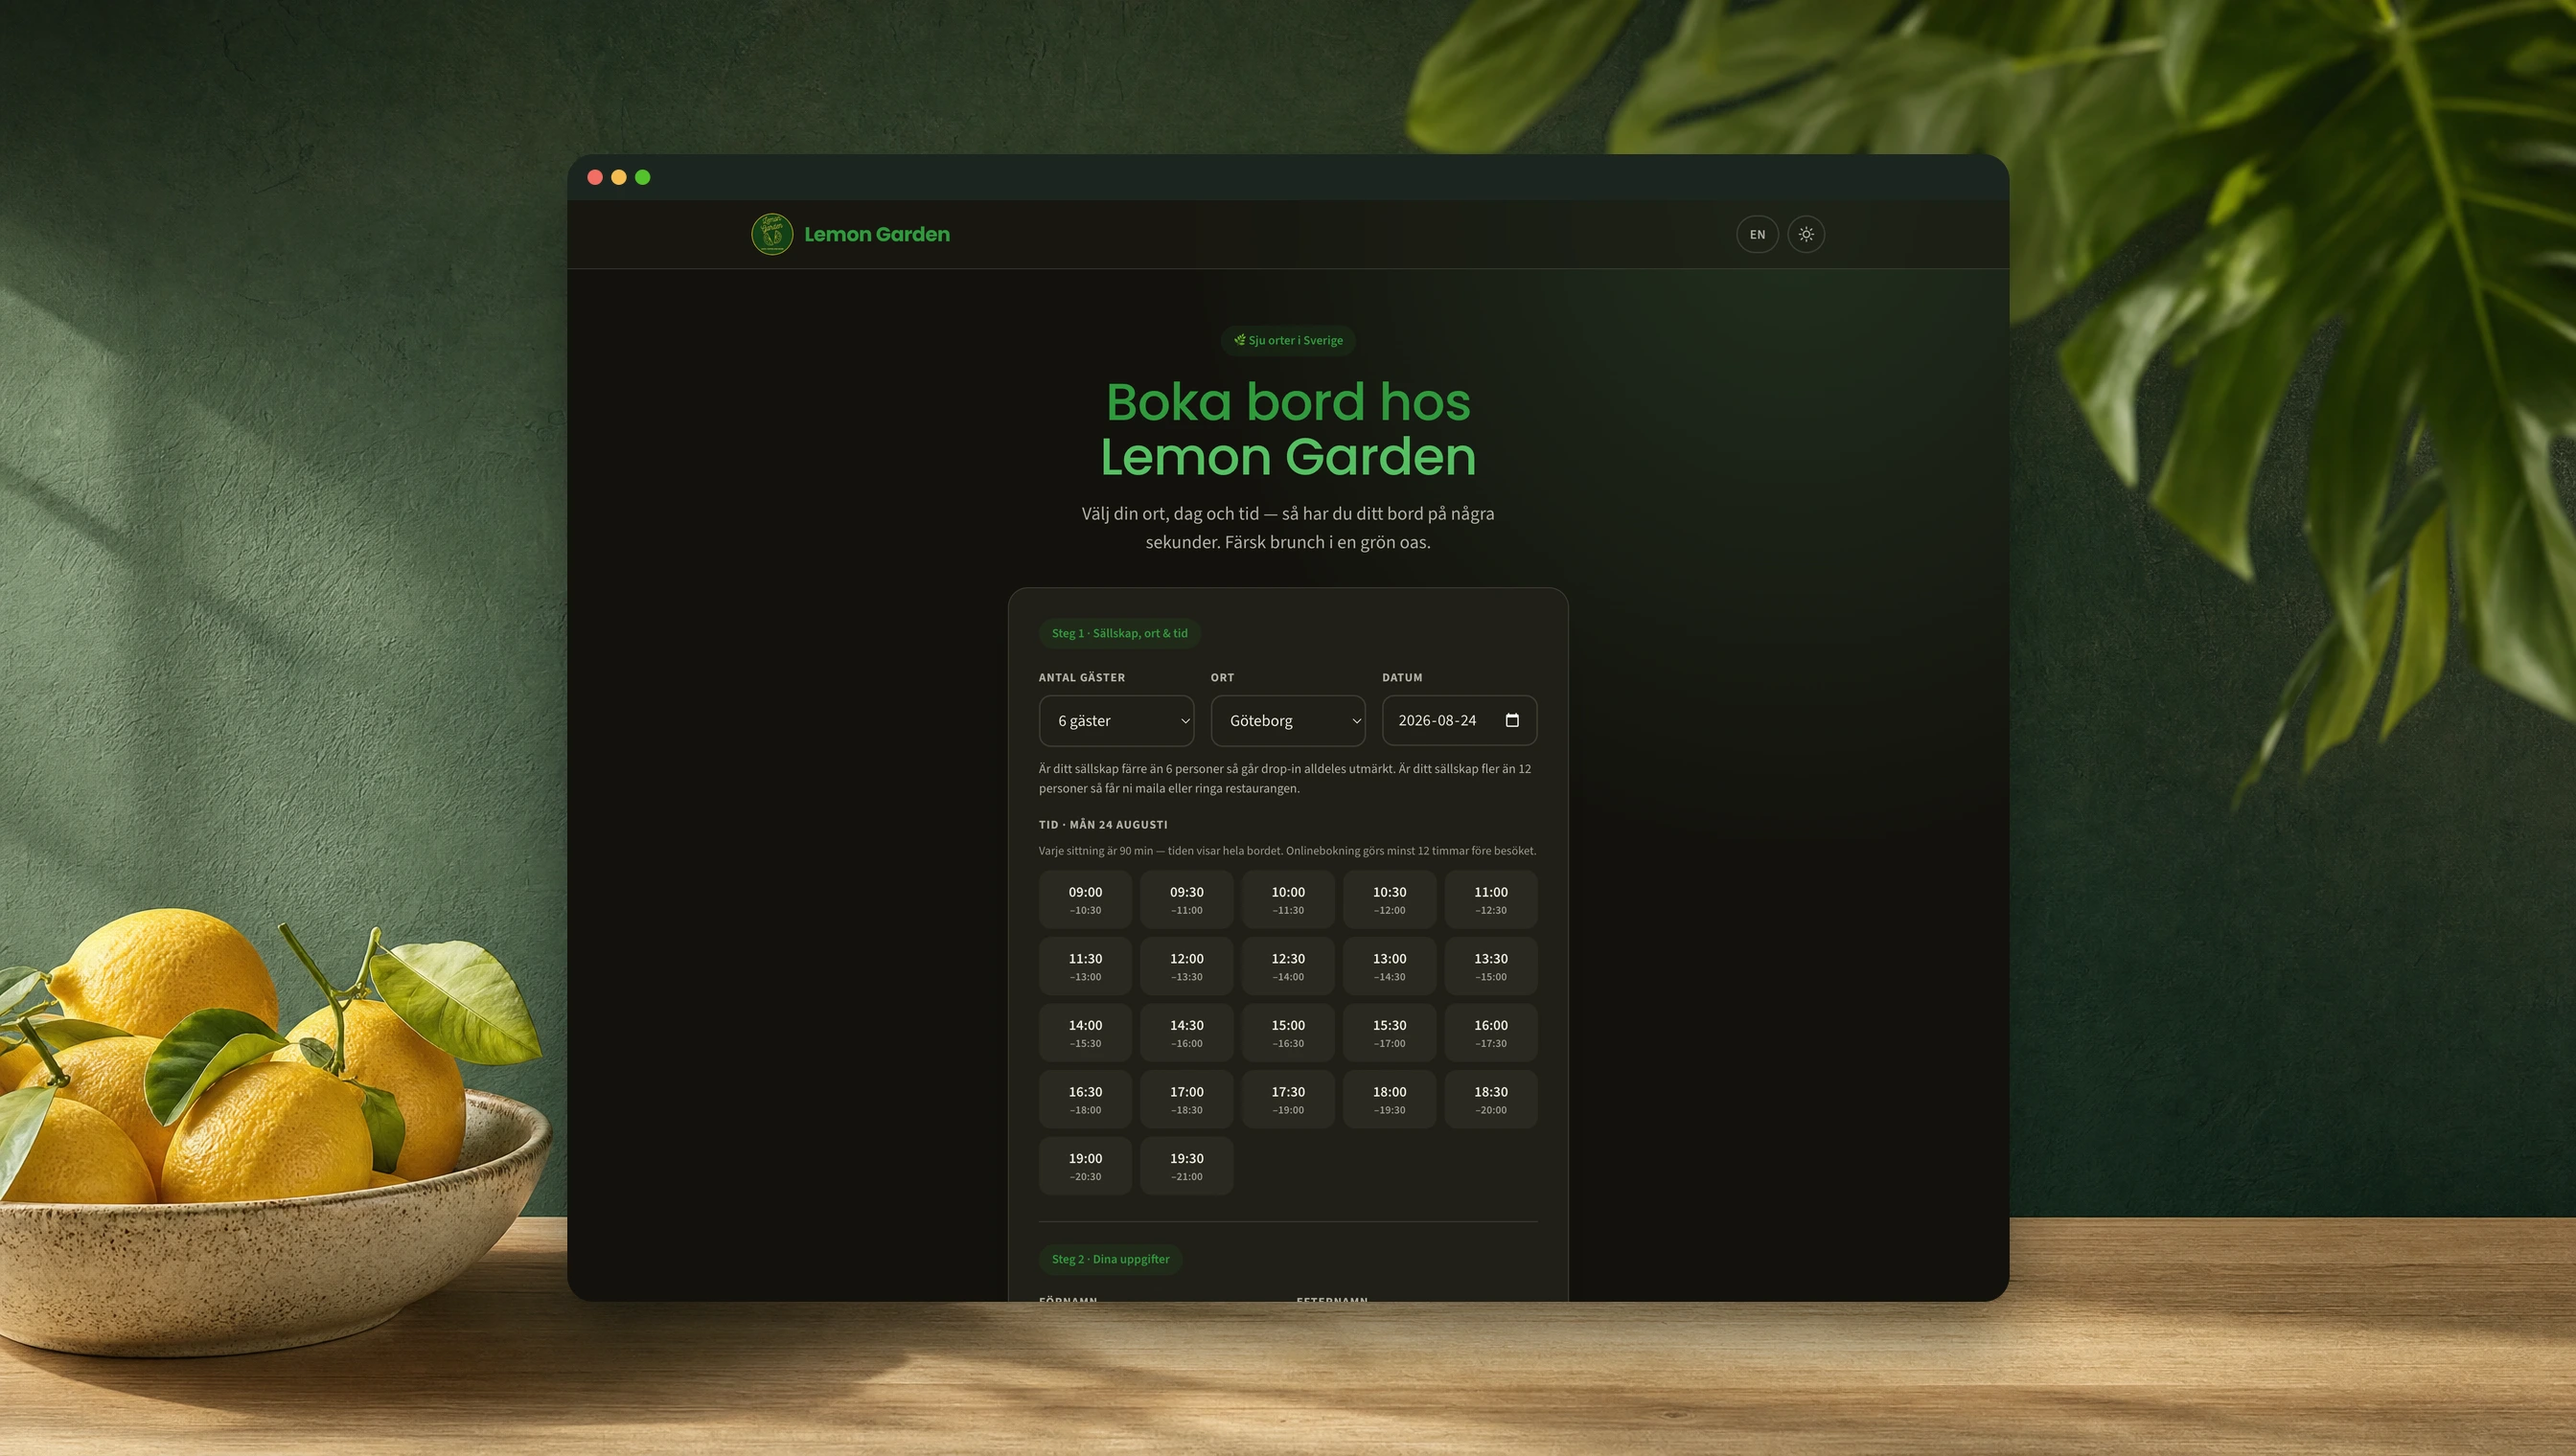
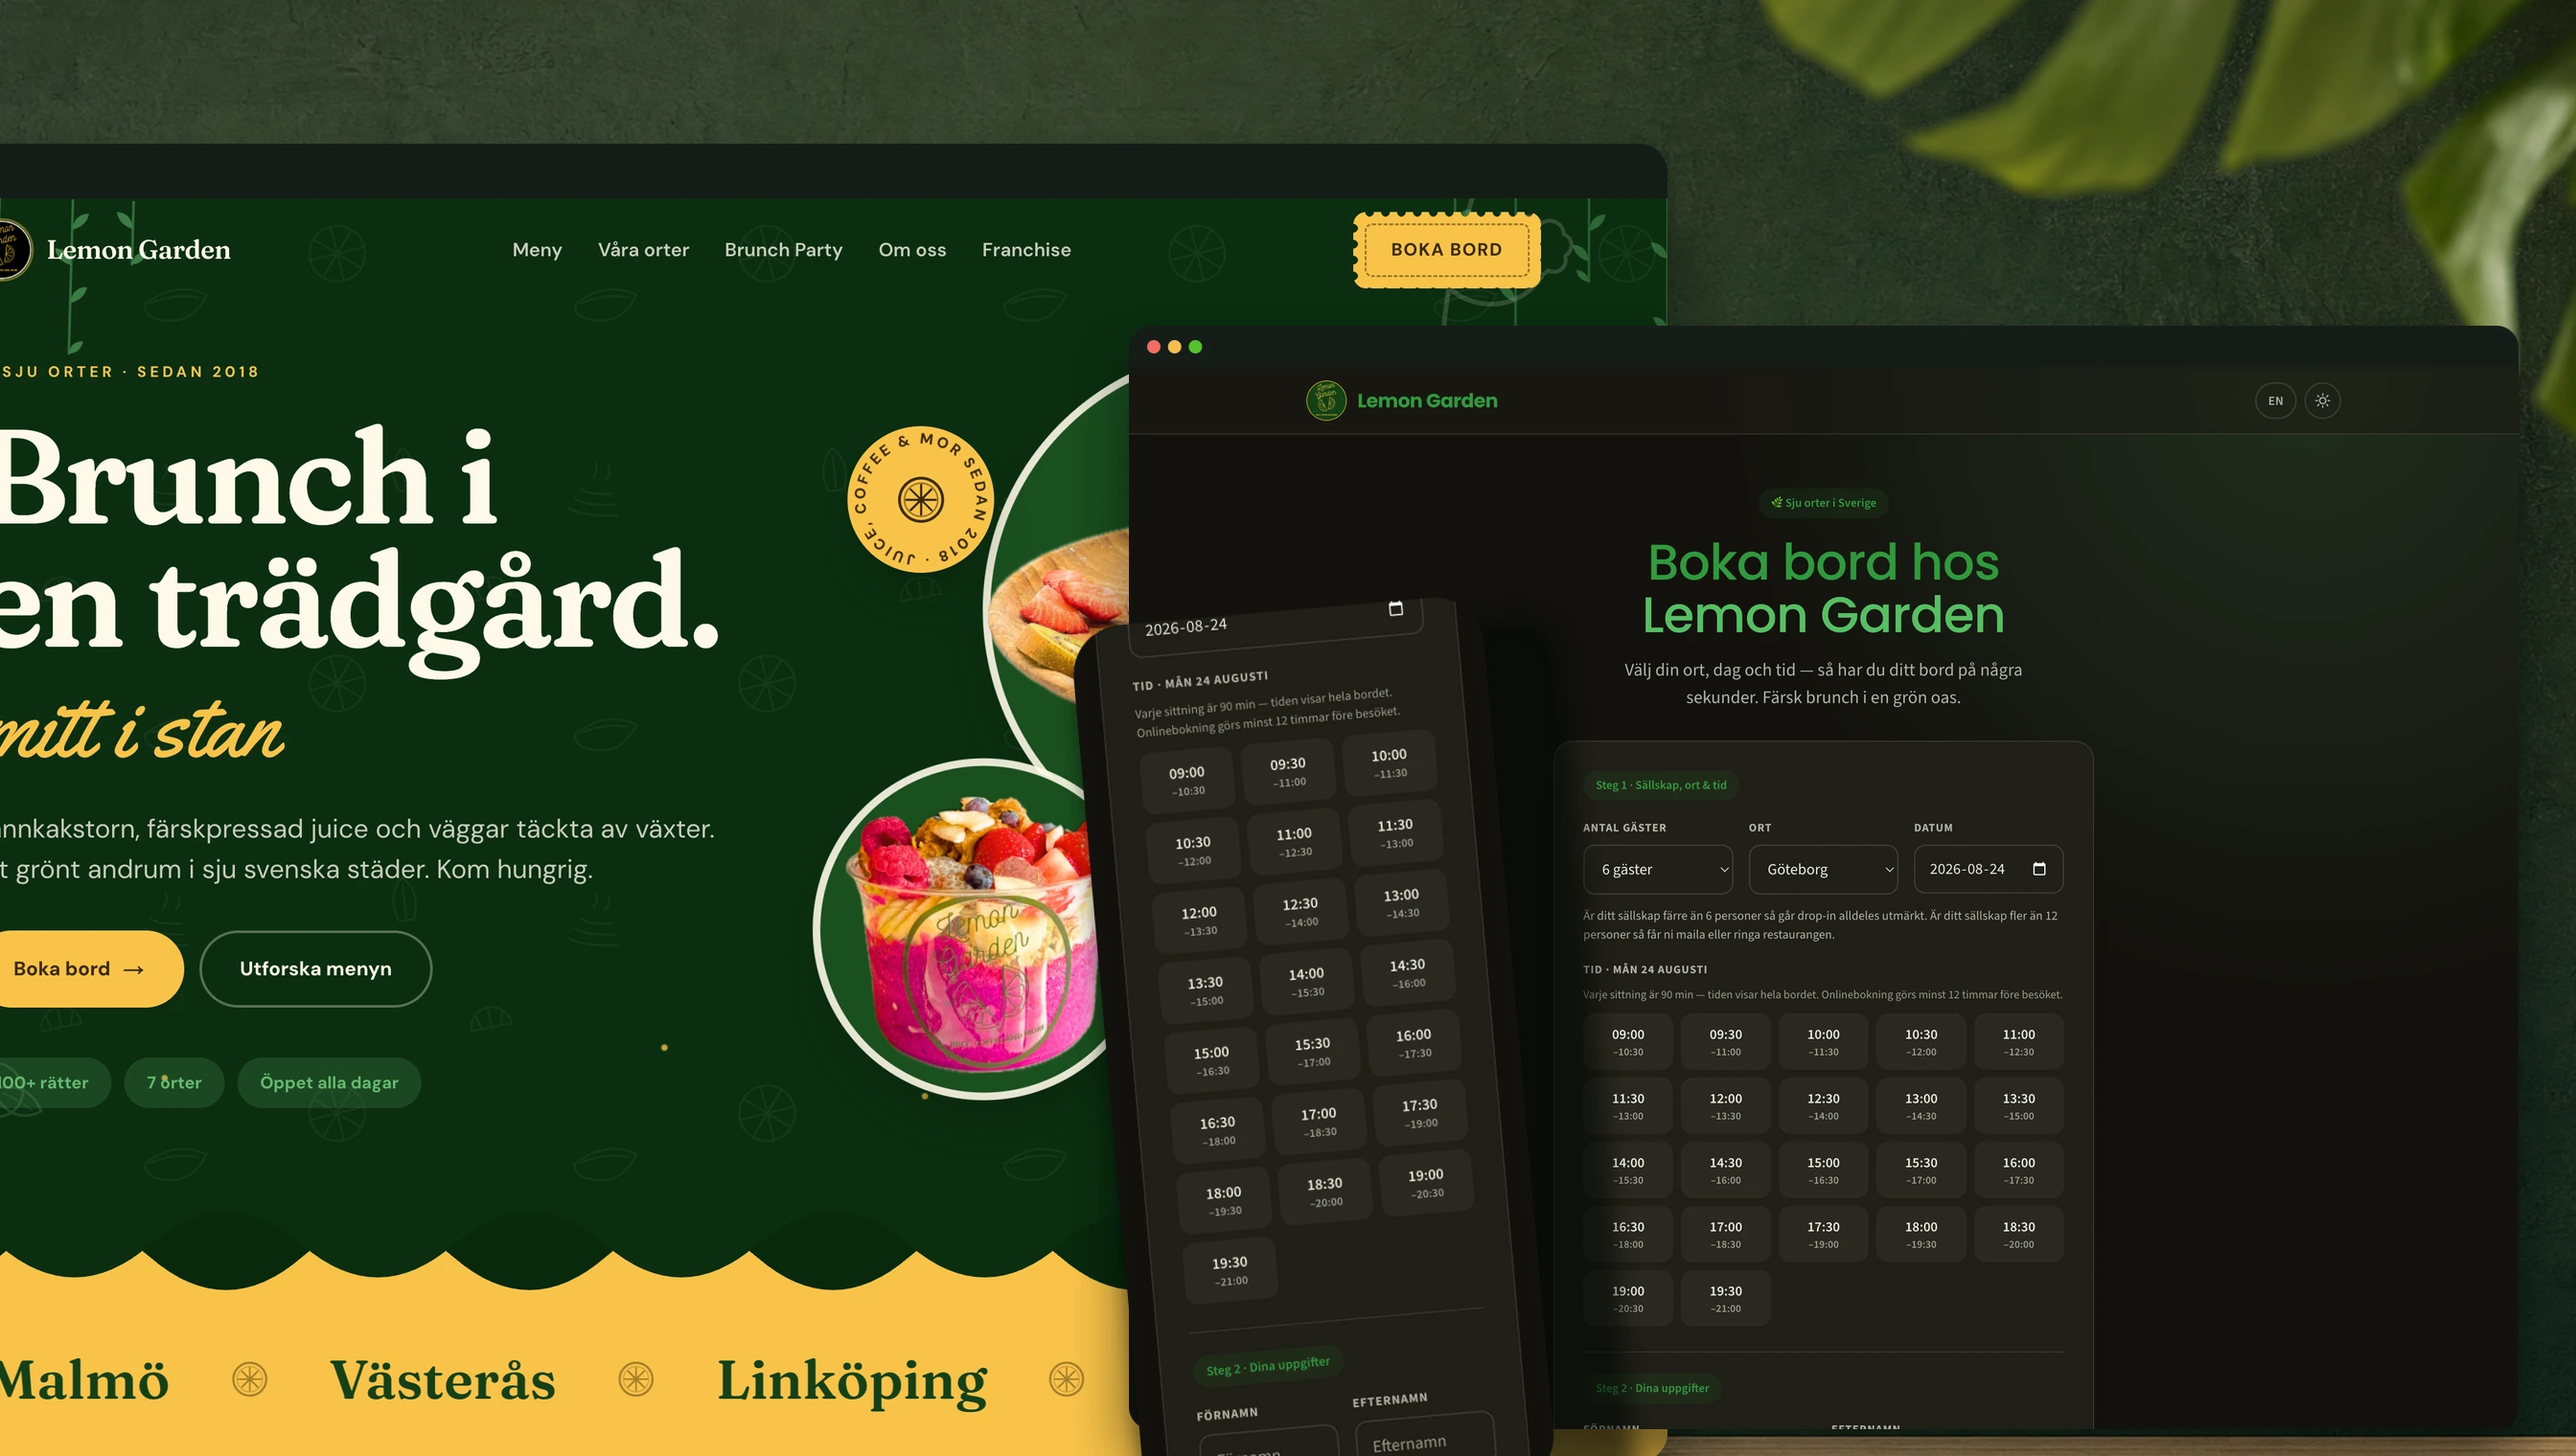
feat(work): won.agency-style cover collage for Lemon Garden + website in top gallery
Ibrahim: the website mockups only appeared after heavy scrolling, and the cover
was too timid. Studied won.agency/work/dubai-new: their case pages lead with
full-bleed, boldly-cropped device imagery at scale, not a polite floating card.

- New cover: a three-surface collage — the website concept LARGE at left
  (bleeding off-frame), the booking widget at right, the phone straddling the
  seam in front — so all three surfaces read at the hero.
- The website board now ALSO leads the top mockups gallery (gallery handles
  4-6 items; Project You already ships 6), instead of first appearing in the
  showcase section at the bottom.

Same masking rules as before; all UI pixels are real screenshots with
fictional data. tsc + 34/34 + build green.

diff --git a/src/data/case-studies.ts b/src/data/case-studies.ts
@@ -142,7 +142,10 @@ export const caseStudies: CaseStudy[] = [
     category: 'Application Development',
     coverImage: '/images/portfolio/lemon-garden/cover.webp',
     liveUrl: 'https://boka.lemongarden.se',
+    // Website FIRST — the cover collage leads with it and the gallery confirms it
+    // immediately, instead of hiding the concept work at the bottom of the page.
     mockups: [
+      '/images/portfolio/lemon-garden/website.webp',
       '/images/portfolio/lemon-garden/mobile.webp',
       '/images/portfolio/lemon-garden/console.webp',
       '/images/portfolio/lemon-garden/formbuilder.webp',
